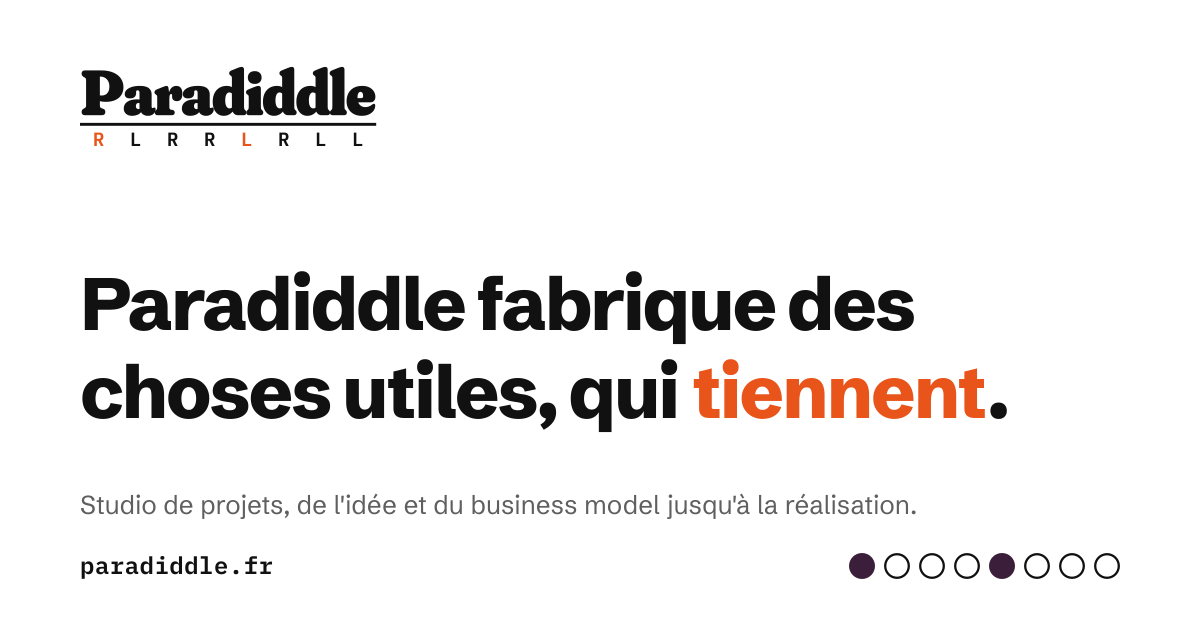
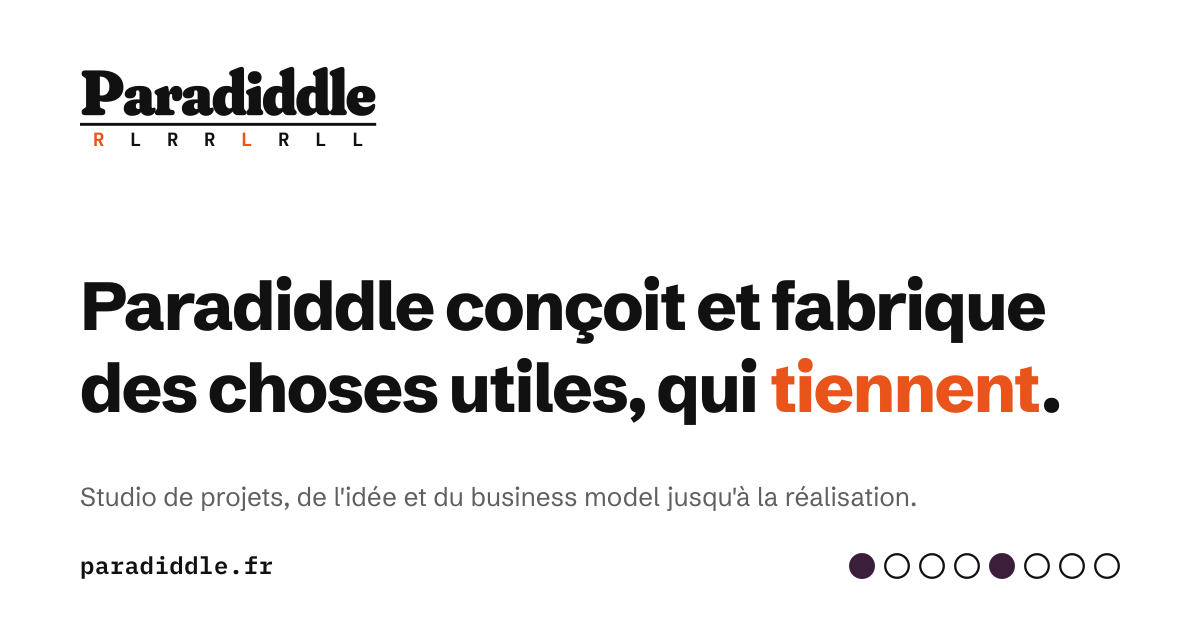
Projets : captures d'écran et « Notre intervention » ; conçoit et fabrique
Claude-Session: https://claude.ai/code/session_01BLnAgTWFHsGTDW4dwBqLML

Changed region(s): [[0.0617, 0.4222, 0.8942, 0.5429], [0.0617, 0.573, 0.8942, 0.6937], [0.0617, 0.754, 0.7708, 0.8143]]

diff --git a/index.html b/index.html
@@ -4,14 +4,14 @@
 <meta charset="utf-8">
 <meta name="viewport" content="width=device-width, initial-scale=1, viewport-fit=cover">
 <title>Paradiddle · Studio de projets</title>
-<meta name="description" content="Paradiddle fabrique des choses utiles, qui tiennent. Studio de projets, de l'idée et du business model jusqu'à la réalisation. Fondé à Lille par Benoît Schoeffel.">
+<meta name="description" content="Paradiddle conçoit et fabrique des choses utiles, qui tiennent. Studio de projets, de l'idée et du business model jusqu'à la réalisation. Fondé à Lille par Benoît Schoeffel.">
 <meta property="og:title" content="Paradiddle · Studio de projets">
-<meta property="og:description" content="Paradiddle fabrique des choses utiles, qui tiennent. Studio de projets, de l'idée et du business model jusqu'à la réalisation. Fondé à Lille par Benoît Schoeffel.">
+<meta property="og:description" content="Paradiddle conçoit et fabrique des choses utiles, qui tiennent. Studio de projets, de l'idée et du business model jusqu'à la réalisation. Fondé à Lille par Benoît Schoeffel.">
 <meta property="og:type" content="website">
 <meta property="og:image" content="https://paradiddle.fr/og-image.png">
 <meta property="og:image:width" content="1200">
 <meta property="og:image:height" content="630">
-<meta property="og:image:alt" content="Paradiddle fabrique des choses utiles, qui tiennent.">
+<meta property="og:image:alt" content="Paradiddle conçoit et fabrique des choses utiles, qui tiennent.">
 <meta name="twitter:card" content="summary_large_image">
 <meta property="og:url" content="https://paradiddle.fr/">
 <meta name="theme-color" content="#FFFFFF">
@@ -271,6 +271,22 @@ nav a:hover { color: var(--accent-ink); }
 .rules sup { font-size: .55em; line-height: 0; vertical-align: super; }
 
 /* Liens projets avec icône */
+.works { list-style: none; margin: 0; padding: 0; display: grid; gap: 56px; }
+.work { display: grid; grid-template-columns: minmax(0, 1.35fr) minmax(0, 1fr); gap: 32px; align-items: start; }
+.shot { display: block; border: .5px solid #555; border-radius: 6px; overflow: hidden; line-height: 0; transition: transform .25s ease; }
+.shot:hover { transform: translateY(-3px); }
+.shot img { width: 100%; height: auto; display: block; }
+.work h3 { margin: 0; font-size: 22px; font-weight: 700; }
+.work .why { margin: 10px 0 0; font-size: 17px; }
+.work .what { margin: 6px 0 0; font: 500 12px var(--mono); letter-spacing: .12em; text-transform: uppercase; color: var(--muted); }
+.work .lbl { margin: 22px 0 8px; font: 600 12px var(--mono); letter-spacing: .12em; text-transform: uppercase; color: var(--accent-ink); }
+.tags { list-style: none; margin: 0; padding: 0; display: flex; flex-wrap: wrap; gap: 6px; }
+.tags li { font-size: 14px; padding: 3px 10px; border: .5px solid #555; border-radius: 999px; }
+.work .st { margin: 18px 0 0; display: flex; align-items: center; gap: 0; }
+.st-l { font: 500 11px var(--mono); letter-spacing: .12em; text-transform: uppercase; color: var(--muted); margin-right: 10px; }
+.work .st i { display: inline-block; font: 600 10px var(--mono); font-style: normal; padding: 2px 5px; margin-right: 3px; border: 1px solid var(--line); color: #9A9A96; border-radius: 3px; }
+.work .st i.on { background: var(--ink); border-color: var(--ink); color: #fff; }
+@media (max-width: 760px) { .work { grid-template-columns: minmax(0, 1fr); gap: 18px; } .works { gap: 44px; } }
 .proj { display: inline-flex; align-items: center; gap: 10px; text-decoration: none; white-space: nowrap; }
 .proj img { width: 24px; height: 24px; border-radius: 6px; flex: none; }
 .proj:hover { color: var(--accent-ink); }
@@ -315,7 +331,7 @@ try { if (!window.matchMedia('(prefers-reduced-motion: reduce)').matches && !ses
   <div class="wrap">
     <section class="hero" aria-labelledby="hero-title">
       <h1 id="hero-title" class="manifesto">
-        <span class="m1">Paradiddle fabrique des choses utiles, qui <em>tiennent</em>.</span>
+        <span class="m1">Paradiddle conçoit et fabrique des choses utiles, qui <em>tiennent</em>.</span>
       </h1>
       <p class="lede">Studio de projets, de l'idée et du business model jusqu'à la réalisation. Fondé à Lille par Benoît Schoeffel.</p>
     </section>
@@ -374,13 +390,30 @@ try { if (!window.matchMedia('(prefers-reduced-motion: reduce)').matches && !ses
     <section class="s" id="index" aria-labelledby="index-title">
       <div class="s-head"><span class="mono num">04</span><h2 id="index-title">Projets</h2></div>
       <div class="s-body">
-        <table class="index">
-          <thead><tr><th scope="col">Projet</th><th scope="col">Nature</th><th scope="col">Étapes</th></tr></thead>
-          <tbody>
-            <tr><td class="p"><a class="proj" href="https://mesproches.app" target="_blank" rel="noopener"><img src="assets/projets/mesproches.png" alt="" width="24" height="24">Mes Proches<span aria-hidden="true">&nbsp;↗</span></a></td><td class="n"><span class="why">Prendre soin de ceux qui comptent vraiment.</span><span class="what">App iOS · par nous</span></td><td class="st" aria-label="Étapes 01, 02, 03"><i class="on">01</i><i class="on">02</i><i class="on">03</i></td></tr>
-            <tr><td class="p"><a class="proj" href="https://maisonsainto.com" target="_blank" rel="noopener"><img src="assets/projets/maisonsainto.svg" alt="" width="24" height="24">Maison Saint O'<span aria-hidden="true">&nbsp;↗</span></a></td><td class="n"><span class="why">Un lieu près de Tournai pour prendre du recul&nbsp;: séminaires, stages, tournages.</span><span class="what">Structuration du projet avec l'un des associés, puis création du site web · pour vous</span></td><td class="st" aria-label="Étapes 01, 03"><i class="on">01</i><i>02</i><i class="on">03</i></td></tr>
-          </tbody>
-        </table>
+        <ul class="works">
+          <li class="work">
+            <a class="shot" href="https://mesproches.app" target="_blank" rel="noopener" tabindex="-1" aria-hidden="true"><img src="assets/projets/mesproches-ecran.jpg" alt="" width="1200" height="750" loading="lazy"></a>
+            <div class="work-txt">
+              <h3><a class="proj" href="https://mesproches.app" target="_blank" rel="noopener"><img src="assets/projets/mesproches.png" alt="" width="24" height="24">Mes Proches<span aria-hidden="true">&nbsp;↗</span></a></h3>
+              <p class="why">Prendre soin de ceux qui comptent vraiment.</p>
+              <p class="what">App iOS · par nous</p>
+              <p class="lbl">Notre intervention</p>
+              <ul class="tags"><li>Analyse de marché</li><li>Business model</li><li>Prototypage</li><li>UX et direction artistique</li><li>Développement</li></ul>
+              <p class="st" aria-label="Étapes 01, 02, 03"><span class="st-l" aria-hidden="true">Étapes</span><i class="on">01</i><i class="on">02</i><i class="on">03</i></p>
+            </div>
+          </li>
+          <li class="work">
+            <a class="shot" href="https://maisonsainto.com" target="_blank" rel="noopener" tabindex="-1" aria-hidden="true"><img src="assets/projets/maisonsainto-ecran.jpg" alt="" width="1200" height="750" loading="lazy"></a>
+            <div class="work-txt">
+              <h3><a class="proj" href="https://maisonsainto.com" target="_blank" rel="noopener"><img src="assets/projets/maisonsainto.svg" alt="" width="24" height="24">Maison Saint O'<span aria-hidden="true">&nbsp;↗</span></a></h3>
+              <p class="why">Un lieu près de Tournai pour prendre du recul&nbsp;: séminaires, stages, tournages.</p>
+              <p class="what">Lieu · pour vous</p>
+              <p class="lbl">Notre intervention</p>
+              <ul class="tags"><li>Cadrage</li><li>Charte graphique</li><li>Logo</li><li>UX</li><li>Développement du site</li></ul>
+              <p class="st" aria-label="Étapes 01, 03"><span class="st-l" aria-hidden="true">Étapes</span><i class="on">01</i><i>02</i><i class="on">03</i></p>
+            </div>
+          </li>
+        </ul>
       </div>
     </section>
 
